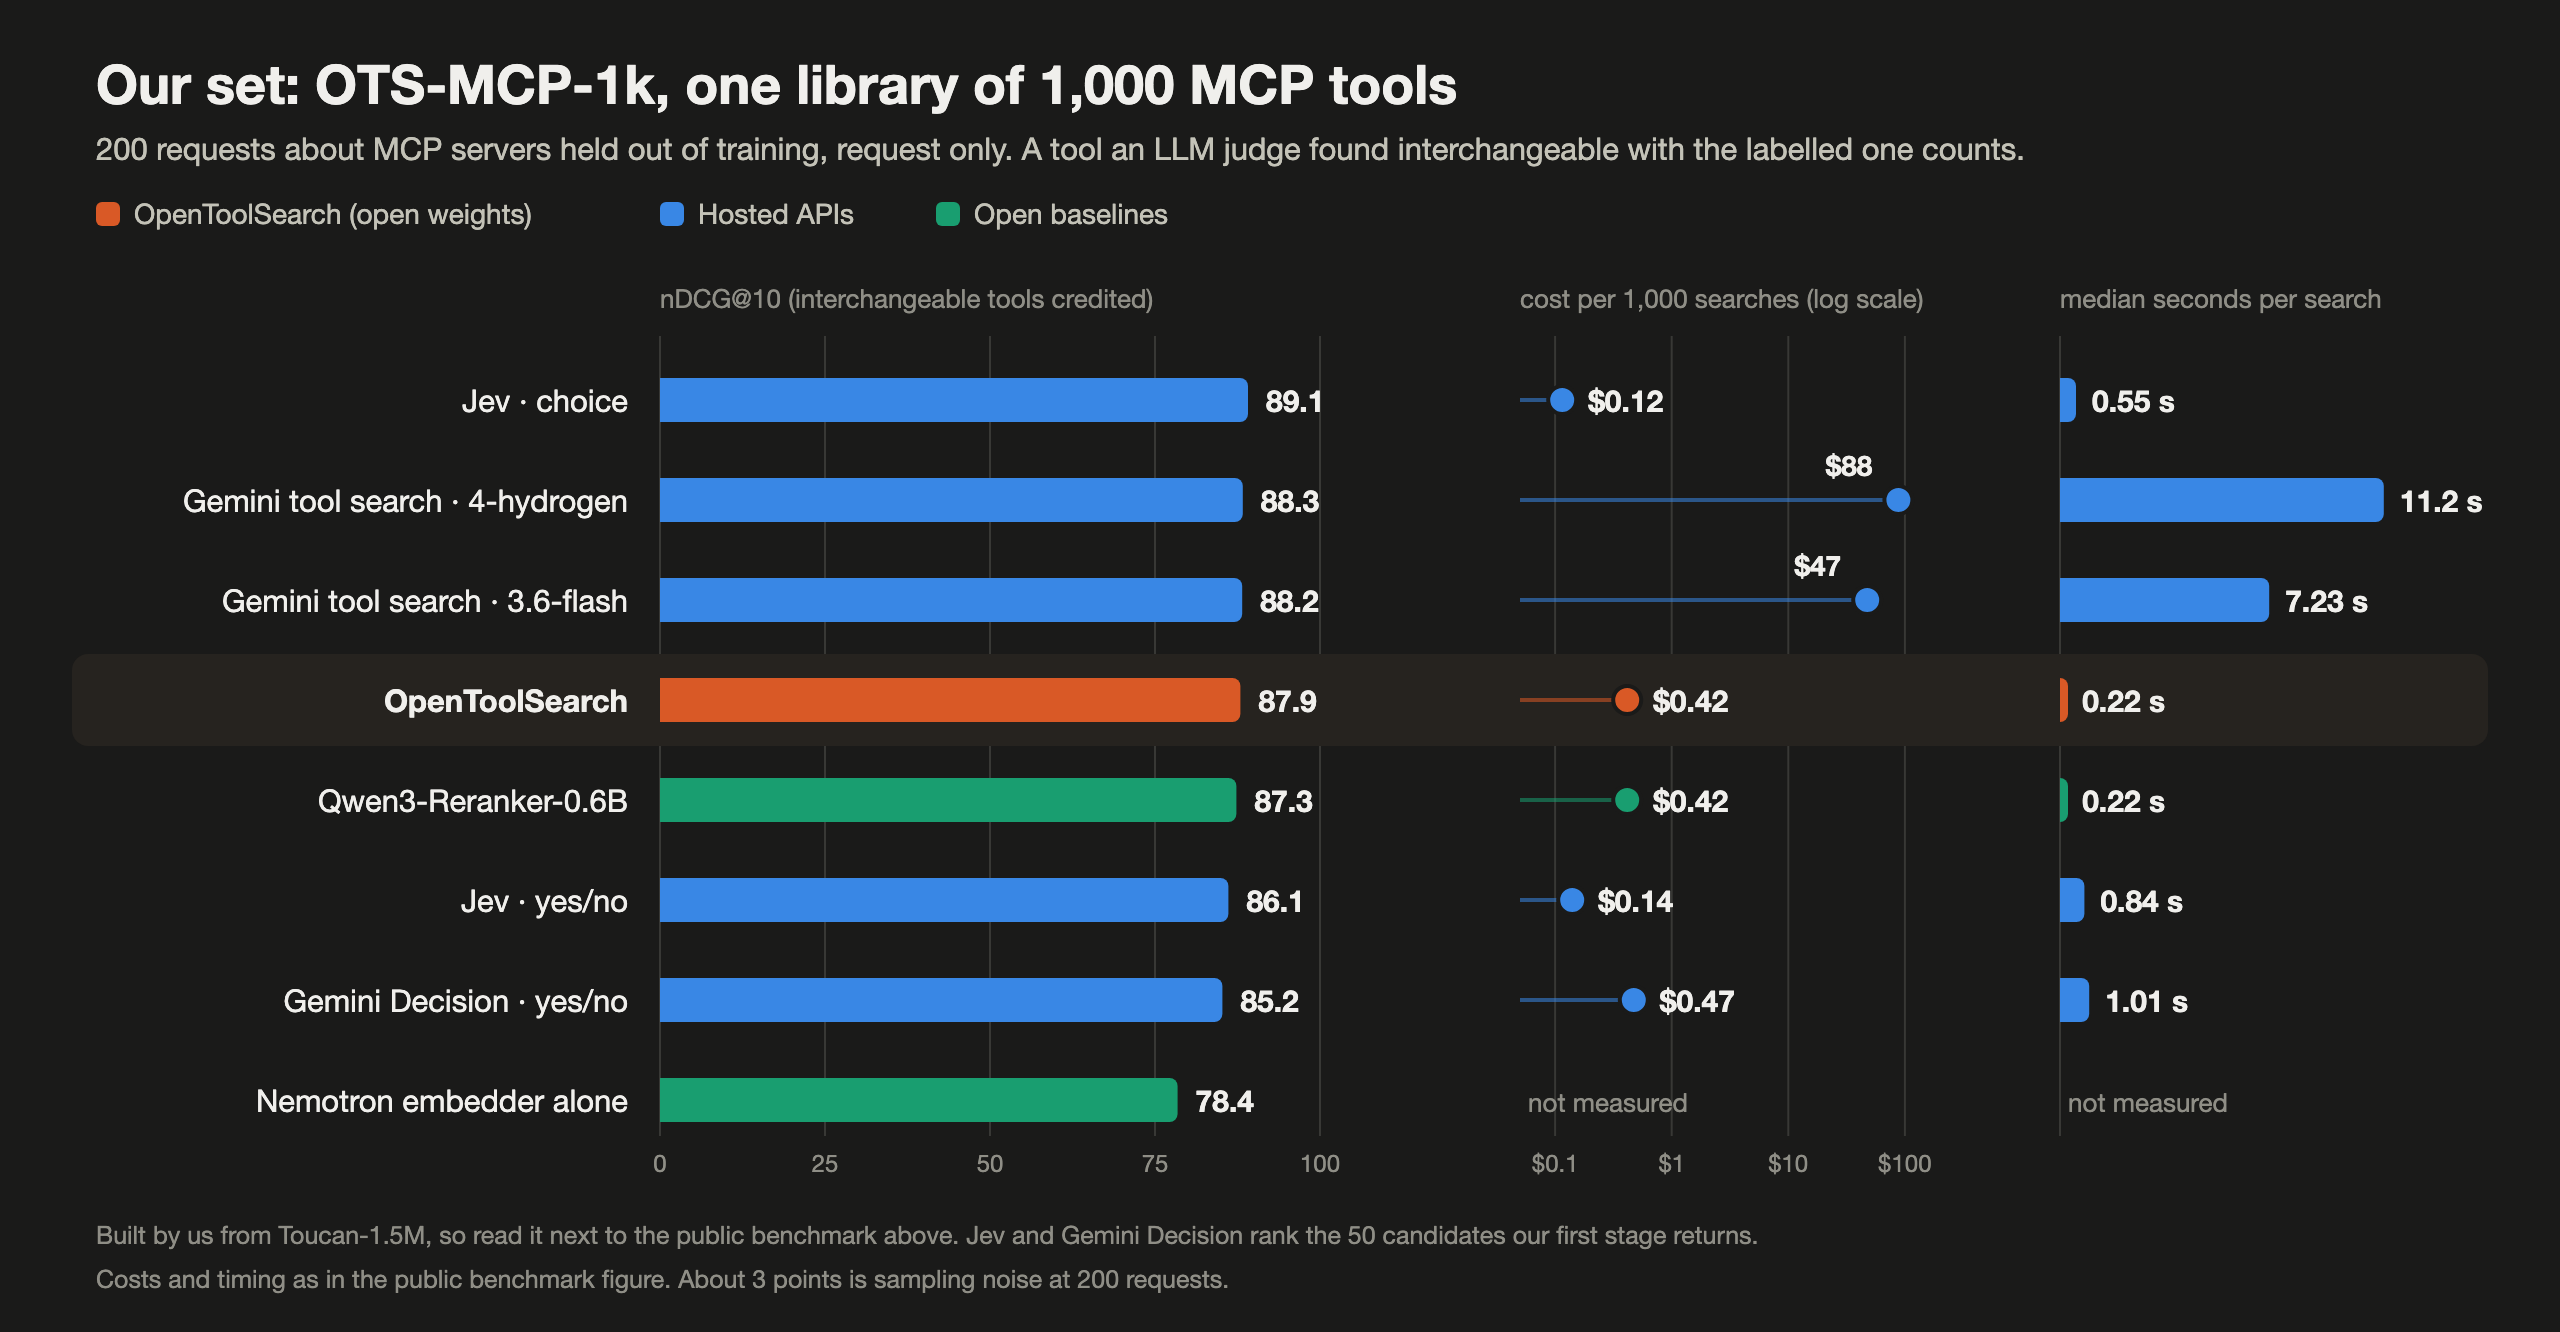
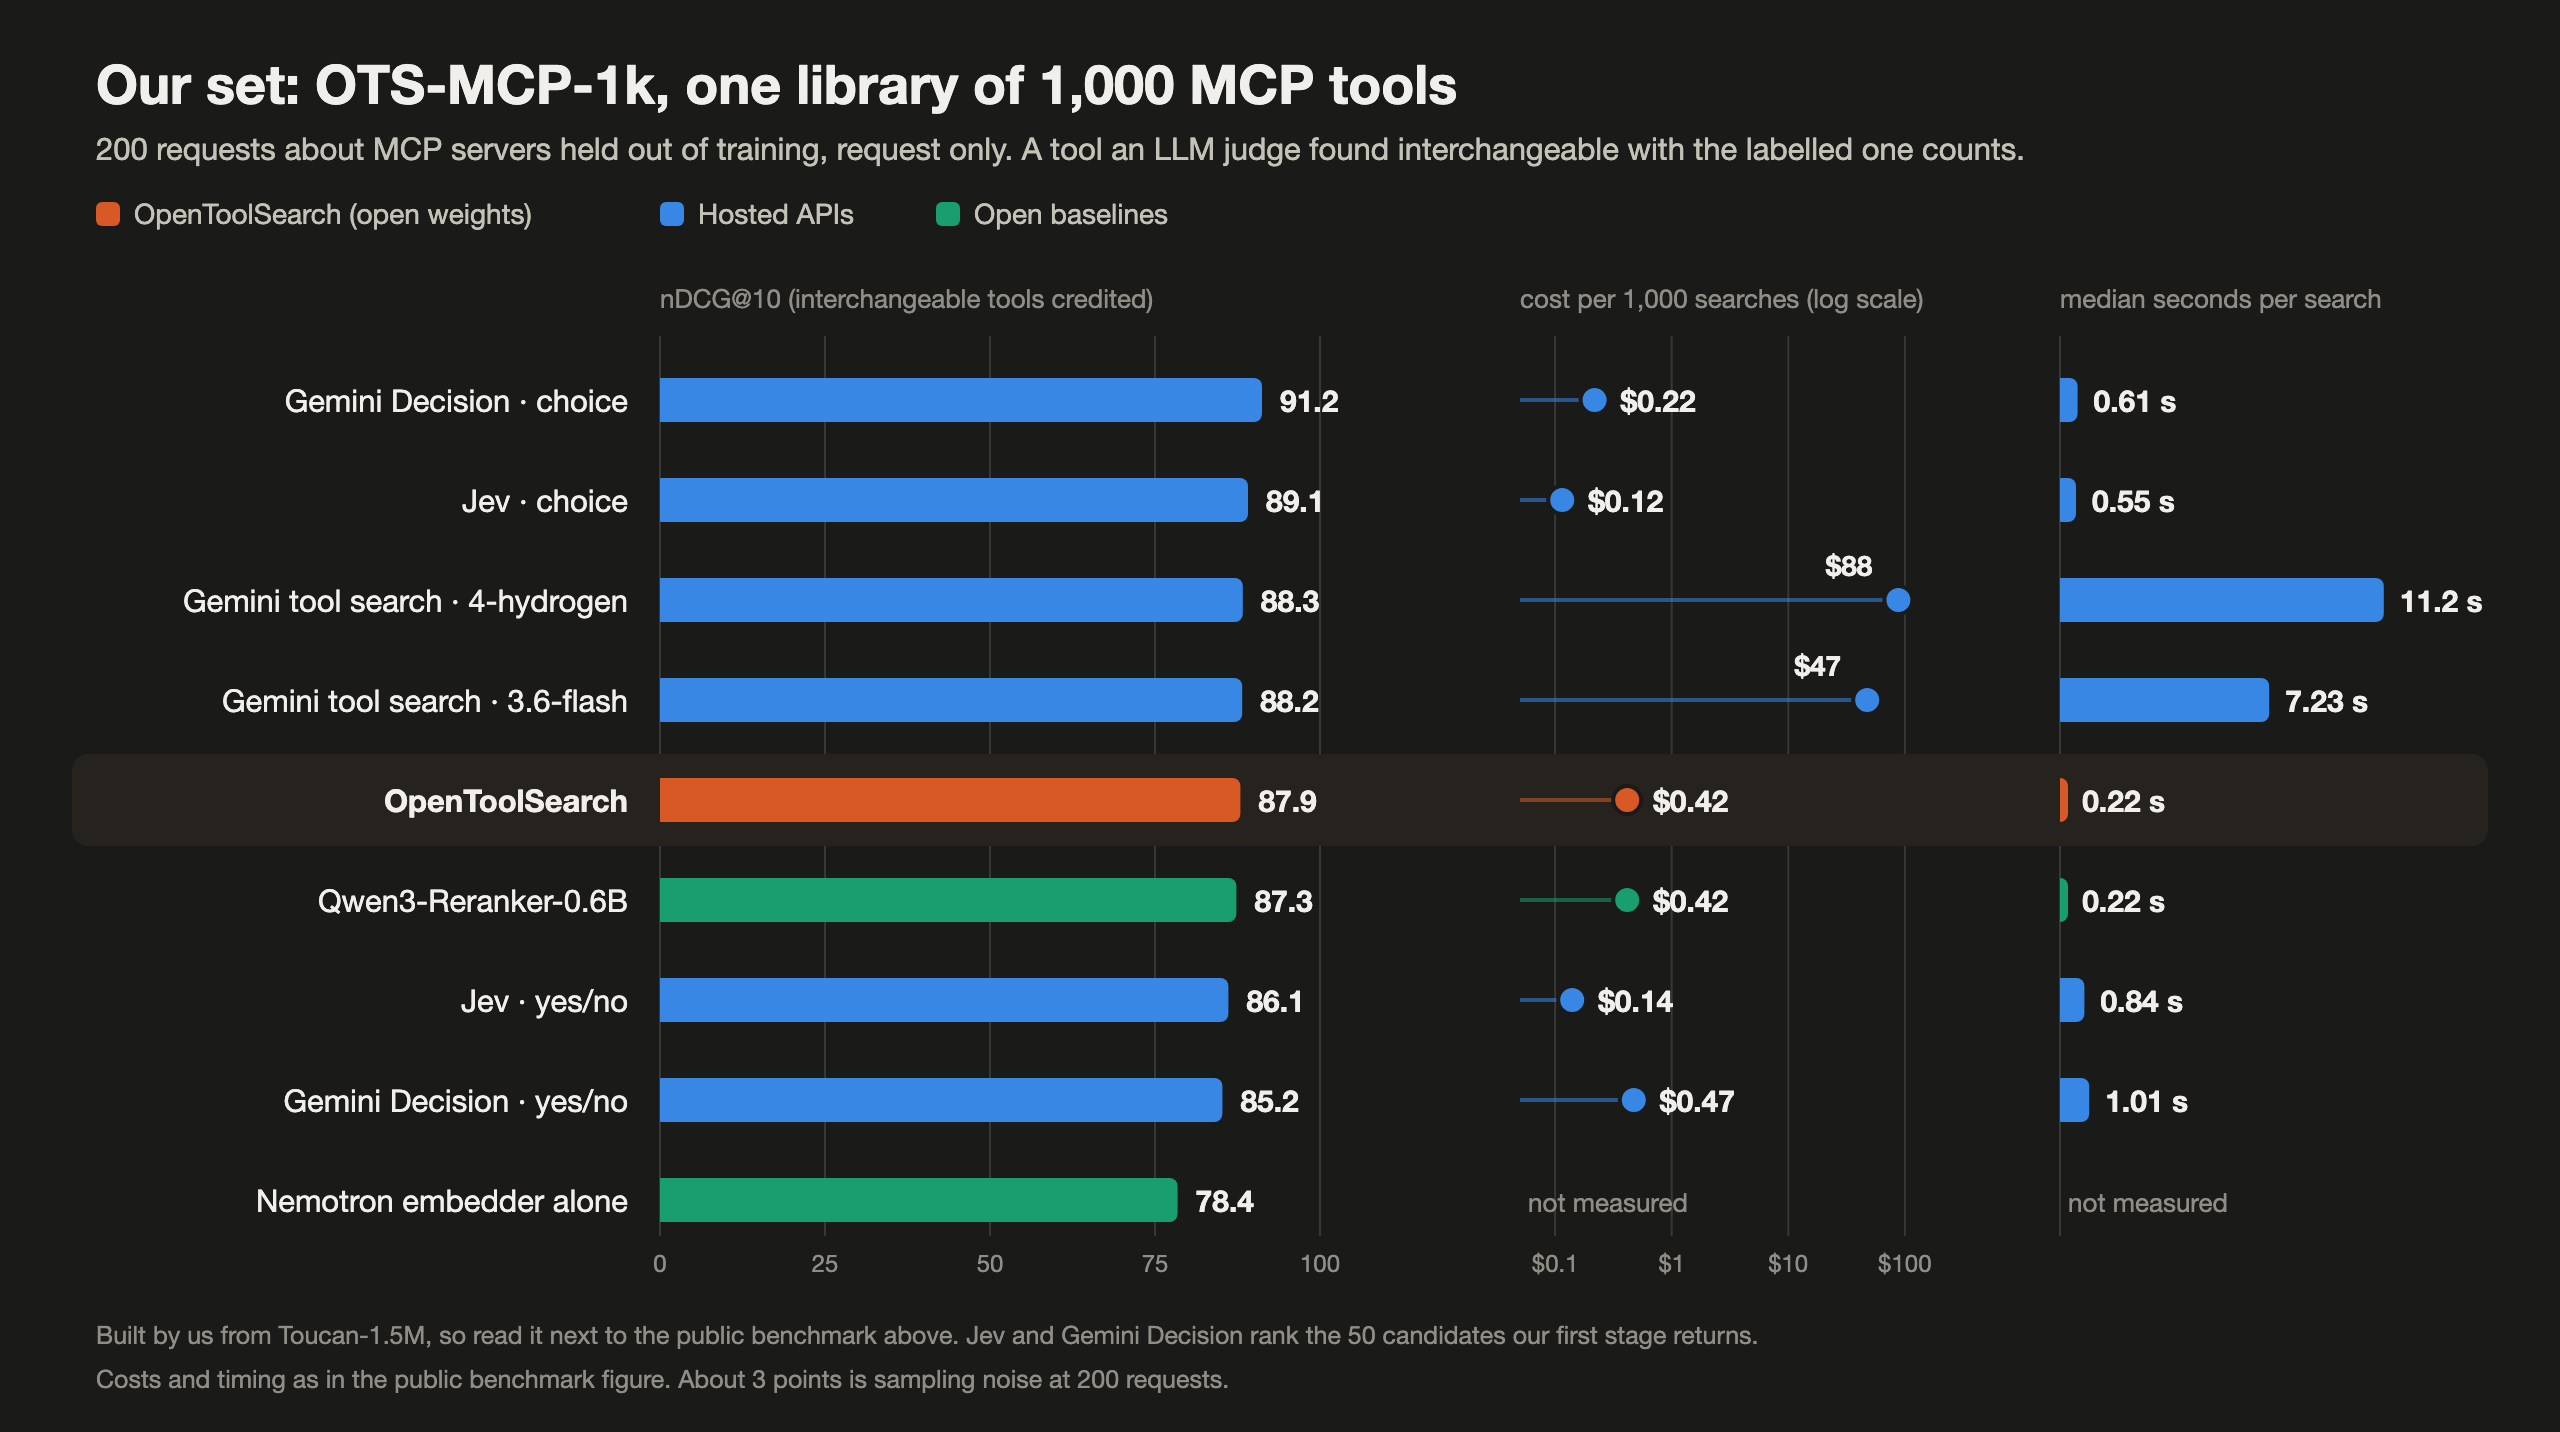
Hardware timing and cost: B300 measured (reproduced), H100 estimated, 8-vCPU measured; Gemini Decision single-choice row added

diff --git a/scripts/make_figures.py b/scripts/make_figures.py
@@ -62,6 +62,7 @@ def own_rows():
     S = [("OpenToolSearch", "ots", m["rerank:published"], g, T_OWN["p50_s"]),
          ("Qwen3-Reranker-0.6B", "base", m["rerank:base"], g, T_OWN["p50_s"]),
          ("Nemotron embedder alone", "base", m["Nemotron-3-Embed-1B alone (first stage)"], None, None),
+         ("Gemini Decision · choice", "api", m["Gemini Decision (single choice)"], m["Gemini Decision (single choice)"]["krw_per_1k"] / KRW, m["Gemini Decision (single choice)"]["latency_p50"]),
          ("Jev · choice", "api", m["Jev (single choice)"], m["Jev (single choice)"]["krw_per_1k"] / KRW, m["Jev (single choice)"]["latency_p50"]),
          ("Jev · yes/no", "api", m["Jev (yes/no per tool)"], m["Jev (yes/no per tool)"]["krw_per_1k"] / KRW, m["Jev (yes/no per tool)"]["latency_p50"]),
          ("Gemini Decision · yes/no", "api", m["Gemini Decision (yes/no per tool)"], m["Gemini Decision (yes/no per tool)"]["krw_per_1k"] / KRW, m["Gemini Decision (yes/no per tool)"]["latency_p50"])]

diff --git a/README.md b/README.md
@@ -60,9 +60,9 @@ picked with our own embedder, and the published weights saw training rows from t
 
 ### Both, in one table
 
-| System | Kind | ToolRet per-source: nDCG@10 | Recall@10 | OTS-MCP-1k: nDCG@10 (credited) | Cost / 1,000 searches | Median latency |
+| System | Kind | ToolRet per-source: nDCG@10 | Recall@10 | OTS-MCP-1k: nDCG@10 | Cost / 1,000 searches | Median latency |
 |---|---|---|---|---|---|---|
-| Gemini Decision — single choice | hosted API | 78.2 | 87.2 | — | $0.33 | 0.68 s |
+| Gemini Decision — single choice | hosted API | 78.2 | 87.2 | 91.2 | $0.33 | 0.68 s |
 | Jev — single choice | hosted API | 77.3 | 85.4 | 89.1 | $0.16 | 0.51 s |
 | Gemini API tool search — gemini-4-hydrogen | hosted API | 73.5 | 79.4 | 88.3 | $51 | 10.0 s |
 | Gemini Decision — yes/no per tool | hosted API | 71.0 | 85.4 | 85.2 | $0.73 | 0.72 s |
@@ -74,15 +74,15 @@ picked with our own embedder, and the published weights saw training rows from t
 
 What the numbers say, plainly:
 
-- **OpenToolSearch is the fastest**: 0.16 s per search, against 0.5-0.7 s for the hosted
+- **Quality: in the middle.** On the public benchmark OpenToolSearch scores 70.3 - above
+  Gemini API tool search with gemini-3.6-flash (67.0), below it with gemini-4-hydrogen (73.5),
+  and 7-8 points below Jev and Gemini Decision asked to pick one tool (77.3, 78.2). On our own
+  set the two decision models lead (91.2, 89.1) and OpenToolSearch sits at 87.9.
+- **Speed: first, by a wide margin.** 0.16 s per search, against 0.5-0.7 s for the hosted
   decision models and 6-10 s for Gemini API tool search.
-- **It costs about as much as the cheapest hosted options and a small fraction of Gemini API
-  tool search**: about $0.36 of GPU time per 1,000 searches, against $28-$51. Gemini has
-  the model read the whole catalogue on every search.
-- **On quality it is in the middle, not at the top.** On the public benchmark it scores 70.3:
-  above Gemini API tool search with gemini-3.6-flash (67.0), below it with gemini-4-hydrogen
-  (73.5), and 7-8 points below Jev and Gemini Decision asked to pick one tool
-  (77.3, 78.2). On our own set everything from 85 to 89 is a tie.
+- **Cost: about like the hosted decision models, a small fraction of Gemini API tool search** -
+  $0.36 of GPU time per 1,000 searches against $28-51. Gemini has the model read the whole
+  catalogue on every search.
 - **Its fine-tuning adds little here.** The released Qwen3 reranker scores 69.9 on the same
   first stage. The gain shows on the full ToolRet corpus below (51.9 to 56.0 on its own),
   where an instruction accompanies each question.
@@ -102,6 +102,20 @@ probability per tool rounded to two decimals; ties keep the order the tools were
 Gemini API tool search returned 3.5 (flash) and 4.7 (hydrogen) tools per question, did not
 search at all on 38 and 39 questions, and returned an error on 6 and 0; those count as
 misses. One question with an empty request is excluded for every system.
+
+**Which hardware, and what it costs.** The costs above are the B300's rental price times the
+measured time, one request at a time. The same pipeline measured elsewhere:
+
+| Device | Median | Mean | Per 1,000 searches | Basis |
+|---|---|---|---|---|
+| NVIDIA B300, bf16 (measured, two runs) | 0.22 s | 0.21 s | $0.42 | measured |
+| NVIDIA B300, re-run the next morning | 0.22 s | 0.23 s | $0.46 | measured |
+| NVIDIA H100 80GB (estimate) | 0.28 s | 0.27 s | $0.27-0.35 | estimated: H100 has 3.35 TB/s of memory bandwidth against the B300's ~8 TB/s and no fp8/bf16 speed advantage for this size; 1.3-1.7x the B300 time |
+| 8 vCPU, fp32, 8 threads (measured, 5 requests) | 57.48 s | 52.62 s | $7.61 | measured; indexing the 1,000 tools takes 520 s on CPU |
+
+The H100 figure is an estimate, not a measurement: every H100 on our cluster is rented out right
+now, and the CPU column is what happens when you take the GPU away - the search still works,
+it just takes a minute.
 
 ### 3. The full ToolRet corpus, against published systems
 

diff --git a/hf/opentoolsearch-rerank-0.6b/README.md b/hf/opentoolsearch-rerank-0.6b/README.md
@@ -96,10 +96,12 @@ Two tests, the request alone (no instruction). **ToolRet per-source** is the pub
 question searched among the tools of its own source dataset, the benchmark's labels, 769
 questions from 32 subsets. **OTS-MCP-1k** is ours: 1,000 MCP tools, 200 requests about held-out
 servers, interchangeable tools credited - built by us, so weigh it below the public one.
+Gemini Decision and Jev lead on both when asked to pick one tool (91.2 and 89.1 on ours); this
+model is the fastest of them all by a wide margin.
 
-| System | Kind | ToolRet per-source: nDCG@10 | Recall@10 | OTS-MCP-1k: nDCG@10 (credited) | Cost / 1,000 searches | Median latency |
+| System | Kind | ToolRet per-source: nDCG@10 | Recall@10 | OTS-MCP-1k: nDCG@10 | Cost / 1,000 searches | Median latency |
 |---|---|---|---|---|---|---|
-| Gemini Decision — single choice | hosted API | 78.2 | 87.2 | — | $0.33 | 0.68 s |
+| Gemini Decision — single choice | hosted API | 78.2 | 87.2 | 91.2 | $0.33 | 0.68 s |
 | Jev — single choice | hosted API | 77.3 | 85.4 | 89.1 | $0.16 | 0.51 s |
 | Gemini API tool search — gemini-4-hydrogen | hosted API | 73.5 | 79.4 | 88.3 | $51 | 10.0 s |
 | Gemini Decision — yes/no per tool | hosted API | 71.0 | 85.4 | 85.2 | $0.73 | 0.72 s |
@@ -108,23 +110,6 @@ servers, interchangeable tools credited - built by us, so weigh it below the pub
 | Qwen3-Reranker-0.6B as released | open baseline | 69.9 | 81.7 | 87.3 | $0.36 | 0.16 s |
 | Gemini API tool search — gemini-3.6-flash | hosted API | 67.0 | 71.6 | 88.2 | $28 | 6.24 s |
 | Nemotron-3-Embed-1B alone | open baseline | 62.9 | 76.6 | 78.4 | — | — |
-
-What the numbers say, plainly:
-
-- **OpenToolSearch is the fastest**: 0.16 s per search, against 0.5-0.7 s for the hosted
-  decision models and 6-10 s for Gemini API tool search.
-- **It costs about as much as the cheapest hosted options and a small fraction of Gemini API
-  tool search**: about $0.36 of GPU time per 1,000 searches, against $28-$51. Gemini has
-  the model read the whole catalogue on every search.
-- **On quality it is in the middle, not at the top.** On the public benchmark it scores 70.3:
-  above Gemini API tool search with gemini-3.6-flash (67.0), below it with gemini-4-hydrogen
-  (73.5), and 7-8 points below Jev and Gemini Decision asked to pick one tool
-  (77.3, 78.2). On our own set everything from 85 to 89 is a tie.
-- **Its fine-tuning adds little here.** The released Qwen3 reranker scores 69.9 on the same
-  first stage. The gain shows on the full ToolRet corpus below (51.9 to 56.0 on its own),
-  where an instruction accompanies each question.
-- **It is the only row you can run yourself** - open weights, no per-search fee, and the tool
-  library never leaves your machines.
 
 
 Hosted costs are what the provider or gateway charged; open-model cost is GPU time for one

diff --git a/hf/opentoolsearch-rerank-0.6b/LEDGER.md b/hf/opentoolsearch-rerank-0.6b/LEDGER.md
@@ -169,3 +169,20 @@ alone 78.42.
 Median latency / cost per 1,000 searches on the public set: OpenToolSearch 0.16 s / $0.36 of GPU
 time · Jev 0.51 s / $0.16 · Gemini Decision 0.68 s / $0.33 · Gemini tool search 6.2-10.0 s / $28-51.
 The published weights were chosen before either test existed; nothing was tuned on them.
+
+# Hardware timing and cost, and the missing Gemini Decision row (2026-11-21, later)
+
+- Timing re-run on a fresh B300 (spot): p50 0.216 s, mean 0.233 s - the first run's 0.217 s
+  was reproducible. Cost is the same: about $0.42-0.46 of GPU time per 1,000 searches
+  (`results/head_to_head_timing.json`, `..._rerun.json`, `..._devices.json`).
+- H100: not measured. All eight H100 units have been leased for days, several to pods that are
+  idle; a spot request against the dedicated host was refused (`host_id` pinning is only for
+  org-owned hosts). Estimate: p50 about 0.28 s, $0.27-0.35 per 1,000 searches, from the B300
+  time scaled by the memory-bandwidth ratio (3.35 vs ~8 TB/s) - flagged as an estimate.
+- 8 vCPU (cpu_8c_16g), fp32, 8 threads, measured end to end on 5 requests: p50 57.5 s, mean
+  52.6 s; indexing the 1,000 tools takes 520 s. Profile: query embedding 0.19 s, reranking
+  1.08-1.29 s per candidate pair (`toolsift-rerank` is a cross-encoder, so it runs once per
+  candidate). Rented at ₩729/h that is $7.61 per 1,000 searches. CPU is about 265 times slower.
+- Gemini Decision single choice on OTS-MCP-1k (the row that was missing): nDCG@10 credited
+  91.2, strict 69.8, $0.31 per 1,000 searches, 0.61 s. It leads the set; the figure and table
+  above were updated.

diff --git a/results/LEDGER.md b/results/LEDGER.md
@@ -169,3 +169,20 @@ alone 78.42.
 Median latency / cost per 1,000 searches on the public set: OpenToolSearch 0.16 s / $0.36 of GPU
 time · Jev 0.51 s / $0.16 · Gemini Decision 0.68 s / $0.33 · Gemini tool search 6.2-10.0 s / $28-51.
 The published weights were chosen before either test existed; nothing was tuned on them.
+
+# Hardware timing and cost, and the missing Gemini Decision row (2026-11-21, later)
+
+- Timing re-run on a fresh B300 (spot): p50 0.216 s, mean 0.233 s - the first run's 0.217 s
+  was reproducible. Cost is the same: about $0.42-0.46 of GPU time per 1,000 searches
+  (`results/head_to_head_timing.json`, `..._rerun.json`, `..._devices.json`).
+- H100: not measured. All eight H100 units have been leased for days, several to pods that are
+  idle; a spot request against the dedicated host was refused (`host_id` pinning is only for
+  org-owned hosts). Estimate: p50 about 0.28 s, $0.27-0.35 per 1,000 searches, from the B300
+  time scaled by the memory-bandwidth ratio (3.35 vs ~8 TB/s) - flagged as an estimate.
+- 8 vCPU (cpu_8c_16g), fp32, 8 threads, measured end to end on 5 requests: p50 57.5 s, mean
+  52.6 s; indexing the 1,000 tools takes 520 s. Profile: query embedding 0.19 s, reranking
+  1.08-1.29 s per candidate pair (`toolsift-rerank` is a cross-encoder, so it runs once per
+  candidate). Rented at ₩729/h that is $7.61 per 1,000 searches. CPU is about 265 times slower.
+- Gemini Decision single choice on OTS-MCP-1k (the row that was missing): nDCG@10 credited
+  91.2, strict 69.8, $0.31 per 1,000 searches, 0.61 s. It leads the set; the figure and table
+  above were updated.
